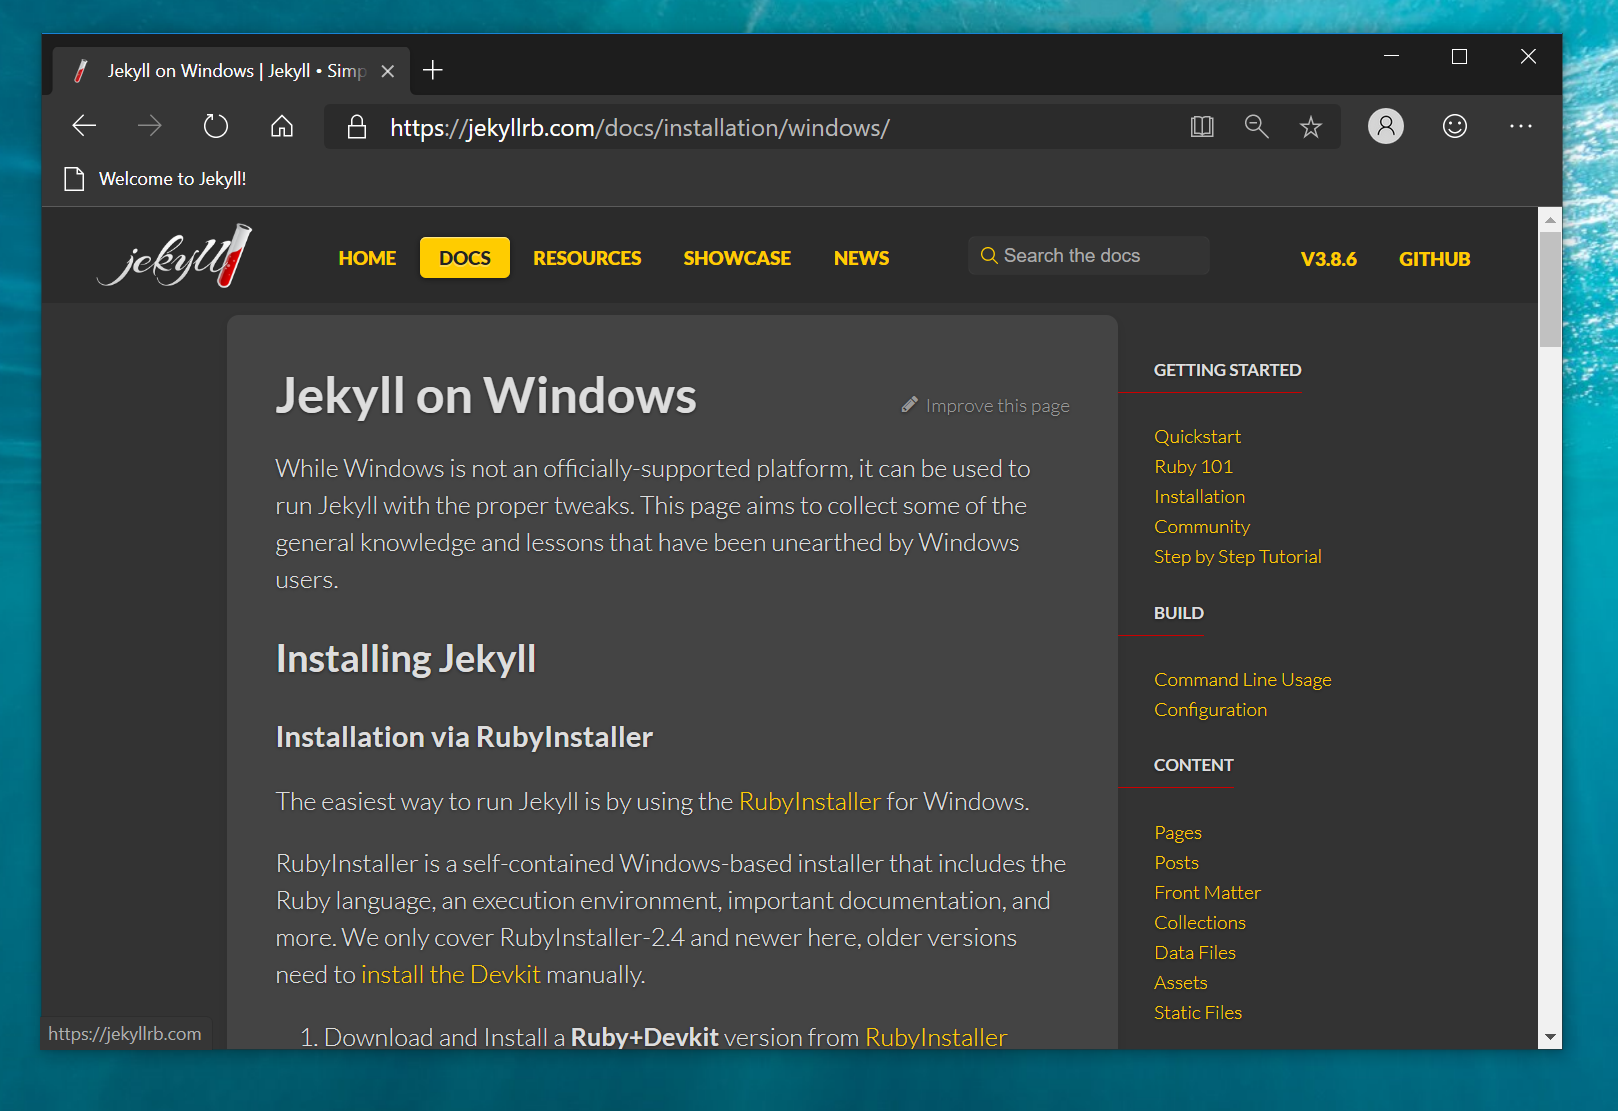
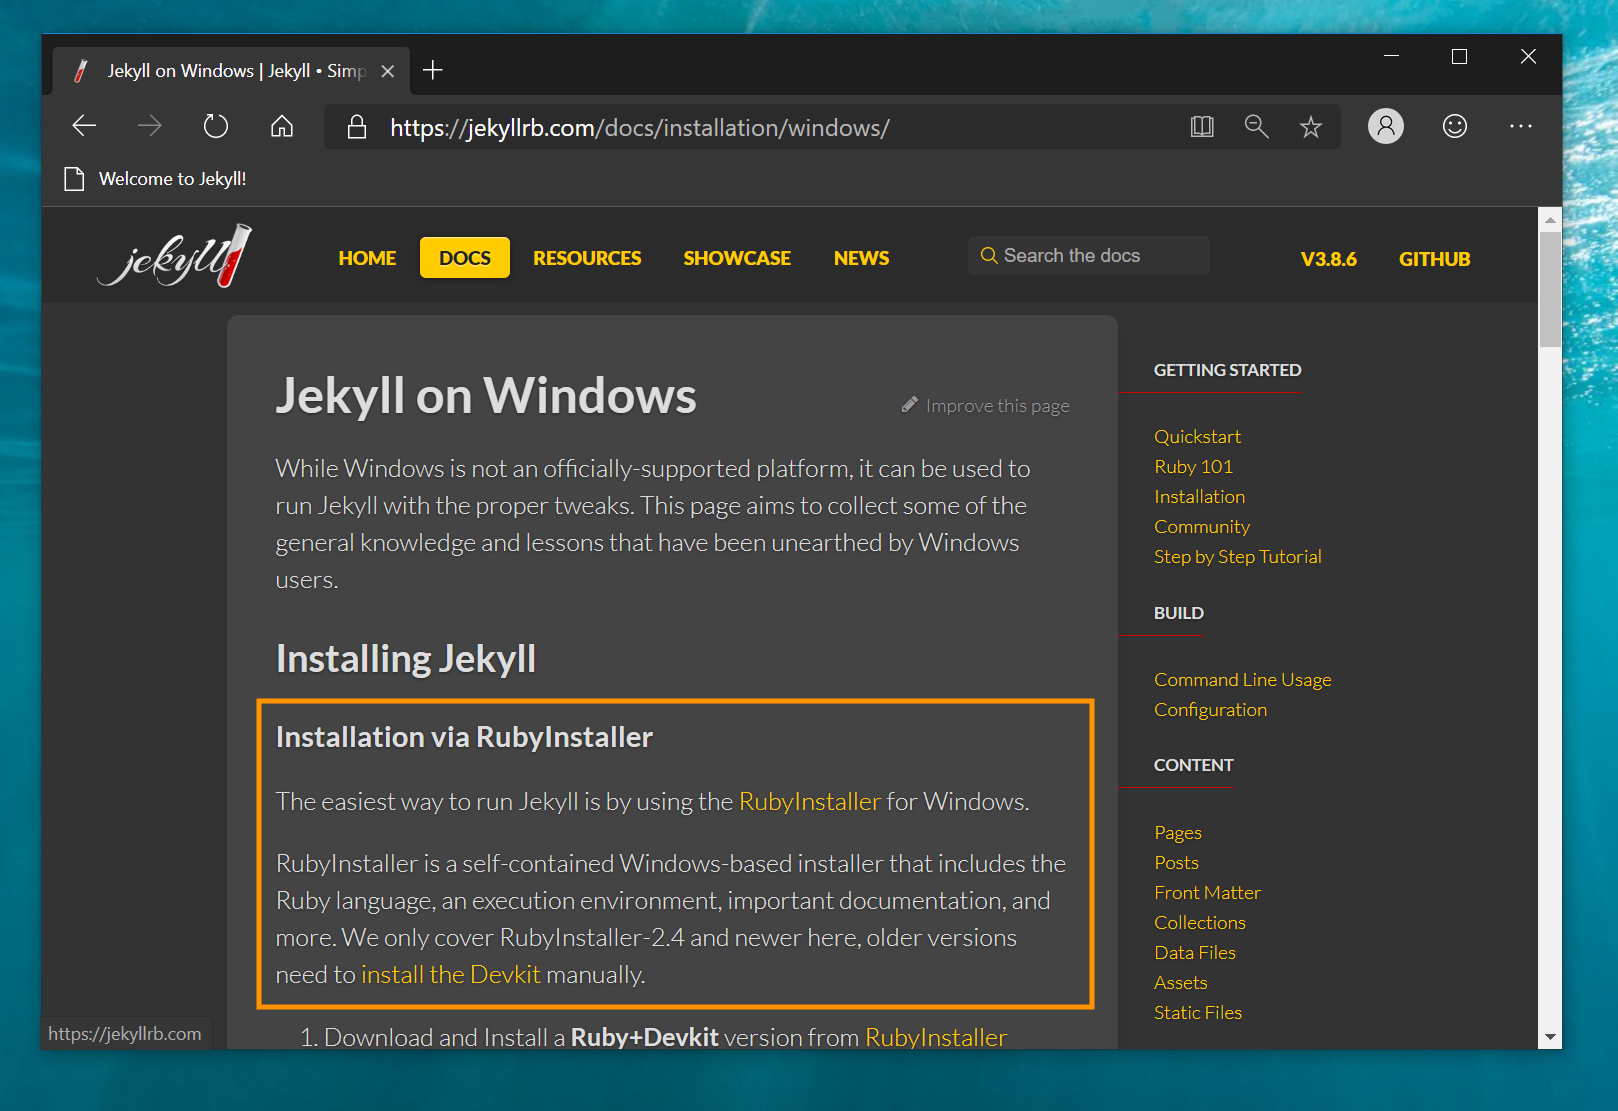
added images

Changed region(s): [[0.1545, 0.6121, 0.6799, 0.9181]]

diff --git a/install-ruby.md b/install-ruby.md
@@ -1,0 +1,35 @@
+# Installing Ruby on Windows
+
+To be able to run jekyll pages, you will need to install ruby. Mainly so you can install their package bundler. 
+
+*Note these instructions are for windows specifically, if you are using another OS, [log an issue on the course](https://github.com/ToiOhomaiBCS/COMP5210-Course-Material/issues/new)*.
+
+[![001-smaller.png](images/001-smaller.png)](images/001.png)
+
+So first open up a browser and go to the [jekyll installation page](https://jekyllrb.com/docs/installation/windows/).
+
+Click on the first orange link that says: **RubyInstaller**
+
+[![002-smaller.png](images/002-smaller.png)](images/002.png)
+
+
+
+[![003-smaller.png](images/003-smaller.png)](images/003.png)
+
+When you have downloaded the setup file and you are going to install it, make sure you select the options according to the screenshots below.
+
+
+
+
+
+[![005-smaller.png](images/005-smaller.png)](images/005.png)
+
+[![006-smaller.png](images/006-smaller.png)](images/006.png)
+
+[![007-smaller.png](images/007-smaller.png)](images/007.png)
+
+[![008-smaller.png](images/008-smaller.png)](images/008.png)
+
+[![010-smaller.png](images/009-smaller.png)](images/009.png)
+
+[![011-smaller.png](images/010-smaller.png)](images/010.png)
